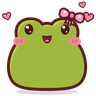
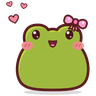
1.99gn site: Pepe's look panel - a read-only "Automatic looks" strip for kawaii Pepe (heist balaclava, the game outfits, bottle service; the one on now is lit) + thumbnails (klook-*.png), kawaii modifier thumbnails re-rendered with the new heart layouts

diff --git a/test/pepelook.test.js b/test/pepelook.test.js
@@ -206,4 +206,9 @@ test("panel markup: Pepe's look section for admins only, thumbnails exist for ev
   for (const id of ["base-pixel", "base-kawaii", "mod-bow", "mod-flowercrown", "mod-catears", "mod-strawberryhat", "mod-sparkles", "mod-headset", "mod-hearts"]) {
     assert.ok(fs.existsSync(path.join(dir, id + ".png")), id + ".png");
   }
+  // 1.99gn: the read-only "Automatic looks" strip (kawaii heist mask, game outfits, bottle service)
+  assert.match(html, /id="plAuto"/);
+  for (const id of ["dealer", "host", "professor", "fighter", "artist", "cowboy", "bandana", "balaclava", "bottleservice"]) {
+    assert.ok(fs.existsSync(path.join(dir, "klook-" + id + ".png")), "klook-" + id + ".png");
+  }
 });
